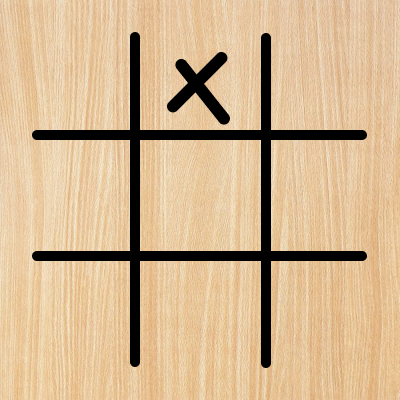
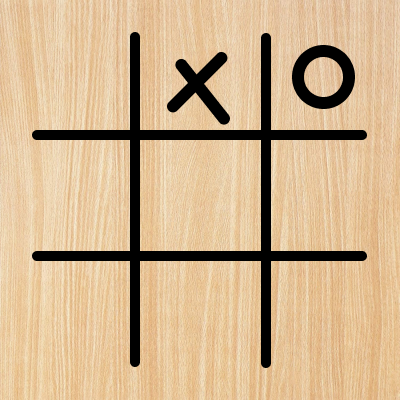
Refreshed output

Changed region(s): [[0.72, 0.09, 0.9, 0.27]]

diff --git a/README.md b/README.md
@@ -11,11 +11,11 @@ This game started on 1/30/2022, 7:34:13 PM
 ![alt text](https://github.com/donadev/TicTacToe/blob/main/games/current/output.png?raw=true)
 
 ### Play now
-To execute the next move, click [here](https://github.com/donadev/TicTacToe/issues/new?title=o%20%24&body=%0A%23%23%23%20Instructions%0A%0APlease%20replace%20in%20the%20title%20the%20char%20%22%24%22%20with%20the%20index%20of%20your%20move%2C%20following%20the%20schema%3A%0A%0A%7C%20%20%20%7C%20x%20%7C%20%20%20%20%7C%0A%7C%20%3A-%3A%20%7C%20%3A-%3A%20%7C%20%3A-%3A%20%7C%0A%7C%20%20%20%7C%20%20%20%7C%20%20%20%7C%0A%7C%20%20%20%7C%20%20%20%7C%20%20%20%7C%0A%0A%23%23%23%20Rules%0A-%20if%20you%20break%20the%20game%20rules%2C%20the%20move%20will%20not%20be%20applied.%0A-%20If%20the%20move%20is%20authorized%2C%20it%20will%20display%20with%20your%20name%20on%20the%20readme%20in%20approx%2020%20seconds.%0A)
+To execute the next move, click [here](https://github.com/donadev/TicTacToe/issues/new?title=x%20%24&body=%0A%23%23%23%20Instructions%0A%0APlease%20replace%20in%20the%20title%20the%20char%20%22%24%22%20with%20the%20index%20of%20your%20move%2C%20following%20the%20schema%3A%0A%0A%7C%201%20%7C%20x%20%7C%20o%20%20%7C%0A%7C%20%3A-%3A%20%7C%20%3A-%3A%20%7C%20%3A-%3A%20%7C%0A%7C%204%20%7C%205%20%7C%206%20%7C%0A%7C%207%20%7C%208%20%7C%209%20%7C%0A%0A%23%23%23%20Rules%0A-%20if%20you%20break%20the%20game%20rules%2C%20the%20move%20will%20not%20be%20applied.%0A-%20If%20the%20move%20is%20authorized%2C%20it%20will%20display%20with%20your%20name%20on%20the%20readme%20in%20approx%2020%20seconds.%0A)
 
 ### Users playing
 The following is a list of every user that has played this game
-- Team ⭕ : No users
+- Team ⭕ : [donadev](https://github.com/donadev)
 - Team ❌ : [donadev](https://github.com/donadev)
 
 

diff --git a/games/current/README.md b/games/current/README.md
@@ -5,11 +5,11 @@ This game started on 1/30/2022, 7:34:13 PM
 ![alt text](https://github.com/donadev/TicTacToe/blob/main/games/current/output.png?raw=true)
 
 ### Play now
-To execute the next move, click [here](https://github.com/donadev/TicTacToe/issues/new?title=o%20%24&body=%0A%23%23%23%20Instructions%0A%0APlease%20replace%20in%20the%20title%20the%20char%20%22%24%22%20with%20the%20index%20of%20your%20move%2C%20following%20the%20schema%3A%0A%0A%7C%20%20%20%7C%20x%20%7C%20%20%20%20%7C%0A%7C%20%3A-%3A%20%7C%20%3A-%3A%20%7C%20%3A-%3A%20%7C%0A%7C%20%20%20%7C%20%20%20%7C%20%20%20%7C%0A%7C%20%20%20%7C%20%20%20%7C%20%20%20%7C%0A%0A%23%23%23%20Rules%0A-%20if%20you%20break%20the%20game%20rules%2C%20the%20move%20will%20not%20be%20applied.%0A-%20If%20the%20move%20is%20authorized%2C%20it%20will%20display%20with%20your%20name%20on%20the%20readme%20in%20approx%2020%20seconds.%0A)
+To execute the next move, click [here](https://github.com/donadev/TicTacToe/issues/new?title=x%20%24&body=%0A%23%23%23%20Instructions%0A%0APlease%20replace%20in%20the%20title%20the%20char%20%22%24%22%20with%20the%20index%20of%20your%20move%2C%20following%20the%20schema%3A%0A%0A%7C%201%20%7C%20x%20%7C%20o%20%20%7C%0A%7C%20%3A-%3A%20%7C%20%3A-%3A%20%7C%20%3A-%3A%20%7C%0A%7C%204%20%7C%205%20%7C%206%20%7C%0A%7C%207%20%7C%208%20%7C%209%20%7C%0A%0A%23%23%23%20Rules%0A-%20if%20you%20break%20the%20game%20rules%2C%20the%20move%20will%20not%20be%20applied.%0A-%20If%20the%20move%20is%20authorized%2C%20it%20will%20display%20with%20your%20name%20on%20the%20readme%20in%20approx%2020%20seconds.%0A)
 
 ### Users playing
 The following is a list of every user that has played this game
-- Team ⭕ : No users
+- Team ⭕ : [donadev](https://github.com/donadev)
 - Team ❌ : [donadev](https://github.com/donadev)
 
 
